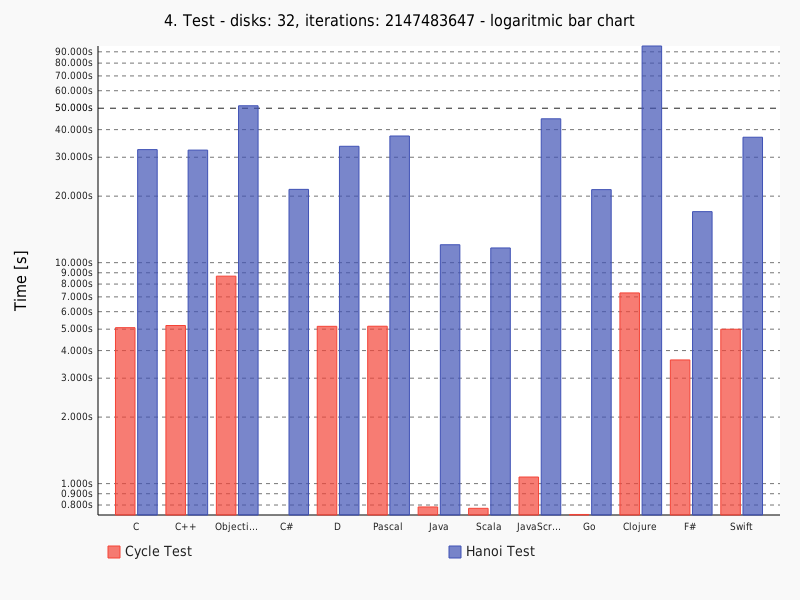
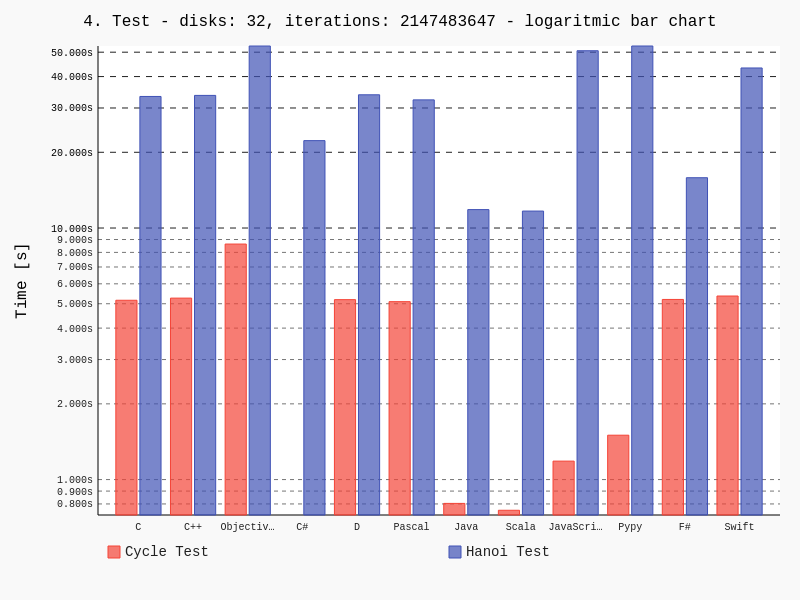
Added Pypy, updated Swift

diff --git a/sources/swift_test.swift b/sources/swift_test.swift
@@ -1,11 +1,12 @@
 import Foundation
 
-func getTime(value: NSDate, round: Int) -> String {
+func getTime(value: Double, round: Int) -> String {
     let fmt = NSNumberFormatter()
     fmt.maximumFractionDigits = round
     fmt.minimumFractionDigits = round
     fmt.minimumIntegerDigits = 1
-    return fmt.stringFromNumber(NSNumber(double: NSDate().timeIntervalSinceDate(value)))!
+
+    return fmt.stringFromNumber(NSNumber(double: NSDate().timeIntervalSince1970 - value))!
 }
 
 func hanoi(n: Int, start: Int, end: Int,  sticks: Int) -> Void {
@@ -13,8 +14,8 @@ func hanoi(n: Int, start: Int, end: Int,  sticks: Int) -> Void {
         return
     }
     let temp = sticks - start - end
-    hanoi(n - 1, start: start, end: temp, sticks: sticks)
-    hanoi(n - 1, start: temp, end: start, sticks: sticks)
+    hanoi(n: n - 1, start: start, end: temp, sticks: sticks)
+    hanoi(n: n - 1, start: temp, end: start, sticks: sticks)
 }
 
 func cycle(n: UInt) -> Void {
@@ -25,18 +26,18 @@ func cycle(n: UInt) -> Void {
 }
 
 func testHanoi(n: Int, sticks: Int) -> Void {
-    let startTime = NSDate()
-    hanoi(n, start: 1, end: n - 1, sticks: sticks)
-    print("Hanoi test passed in " + getTime(startTime, round: 3) + "s.")
+    let startTime = NSDate().timeIntervalSince1970
+    hanoi(n: n, start: 1, end: n - 1, sticks: sticks)
+    print("Hanoi test passed in " + getTime(value: startTime, round: 3) + "s.")
 }
 
 func testCycle(n: UInt) -> Void {
-    let startTime = NSDate()
-    cycle(n)
-    print("Cycle test passed in " + getTime(startTime, round: 3) + "s.")
+    let startTime = NSDate().timeIntervalSince1970
+    cycle(n: n)
+    print("Cycle test passed in " + getTime(value: startTime, round: 3) + "s.")
 }
 
 let args = Process.arguments
 print("Swift:")
-testHanoi(Int(args[1])!, sticks: Int(args[2])!)
-testCycle(UInt(args[3])!)
+testHanoi(n: Int(args[1])!, sticks: Int(args[2])!)
+testCycle(n: UInt(args[3])!)

diff --git a/sources/pypy_test.py b/sources/pypy_test.py
@@ -1,0 +1,29 @@
+import sys
+from time import time
+
+def hanoi(n, start, dest, sticks):
+    if n == 0:
+        return
+
+    temp = sticks - start - dest
+    hanoi(n - 1, start, temp, sticks)
+    hanoi(n - 1, temp, dest, sticks)
+
+def cycle(n):
+    i = 0
+    while i < n:
+        i += 1
+
+def testHanoi(n, sticks):
+    startTime = time()
+    hanoi(n, 1, sticks - 1, sticks)
+    print('Hanoi test passed in %.3fs.' % (time() - startTime))
+
+def testCycle(n):
+    startTime = time()
+    cycle(n)
+    print('Cycle test passed in %.3fs.' % (time() - startTime))
+
+print('Pypy:')
+testHanoi(int(sys.argv[1]), int(sys.argv[2]))
+testCycle(int(sys.argv[3]))

diff --git a/evaluator/languages.py b/evaluator/languages.py
@@ -113,6 +113,14 @@ class ObjCLanguage(Language):
         return self.run_process(version).splitlines()[1].strip()
 
 
+class PypyLanguage(Language):
+    """ Pypy Language config. """
+
+    def check_version(self, version):
+        """ Checks version of compiler. """
+        return self.run_process(version).splitlines()[-1].strip().strip('[]')
+
+
 class PascalLanguage(Language):
     """ Pascal Language class. """
 

diff --git a/evaluator/config.py b/evaluator/config.py
@@ -232,6 +232,16 @@ class PythonLanguage(Language):
     ORDER = 15
 
 
+class PypyLanguage(Language):
+    """ Pypy Language config. """
+
+    NAME = 'Pypy'
+    PROGRAM = safe_path('pypy')
+    VERSION = '%s --version' % PROGRAM
+    RUN = '%s sources/pypy_test.py' % PROGRAM
+    ORDER = 15
+
+
 class PerlLanguage(Language):
     """ Perl Language config. """
 

diff --git a/evaluator/docu_generator.py b/evaluator/docu_generator.py
@@ -53,6 +53,7 @@ At now benchmark supports:
   * Go
   * PHP
   * Ruby
+  * Pypy
   * Python
   * Perl
   * Bash

diff --git a/README.md b/README.md
@@ -23,6 +23,7 @@ At now benchmark supports:
   * Go
   * PHP
   * Ruby
+  * Pypy
   * Python
   * Perl
   * Bash
@@ -84,7 +85,7 @@ repository which is well suitable for maintaining fresh versions of languages.
 
 | Info |  |
 | :-----: | :-----: |
-| Operating System | Linux-4.3.3-2-ARCH-x86_64-with-arch |
+| Operating System | Linux-4.5.1-1-ARCH-x86_64-with-arch |
 | Processor | Intel(R) Core(TM) i5-4200M CPU @ 2.50GHz |
 | Total memory | 3.864GB |
 
@@ -95,28 +96,29 @@ repository which is well suitable for maintaining fresh versions of languages.
 | C | cc (GCC) 5.3.0 |
 | C++ | Copyright (C) 2015 Free Software Foundation, Inc. |
 | Objective-C | Copyright (C) 2015 Free Software Foundation, Inc. |
-| C# | Mono C# compiler version 4.2.2.0 |
-| D | DMD64 D Compiler v2.069 |
+| C# | Mono C# compiler version 4.4.0.0 |
+| D | DMD64 D Compiler v2.071.0 |
 | Pascal | Free Pascal Compiler version 3.0.0 [2015/11/26] for x86_64 |
-| Java | javac 1.8.0_66 |
-| Scala | Scala code runner version 2.11.7 -- Copyright 2002-2013, LAMP/EPFL |
+| Java | javac 1.8.0_92 |
+| Scala | Scala code runner version 2.11.8 -- Copyright 2002-2016, LAMP/EPFL |
 | Lua | Lua 5.3.2  Copyright (C) 1994-2015 Lua.org, PUC-Rio |
-| JavaScript (node.js) | v5.3.0 |
+| JavaScript (node.js) | v6.0.0 |
 | ActionScript3 | shell 2.1 release build cyclone |
-| Go | go version go1.5.2 linux/amd64 |
-| PHP | PHP 7.0.1 (cli) (built |  Jan  3 2016 09 | 05 | 41) ( NTS ) |
+| Go | Not available |
+| PHP | PHP 7.0.6 (cli) (built |  Apr 27 2016 19 | 14 | 24) ( NTS ) |
 | Ruby | ruby 2.3.0p0 (2015-12-25 revision 53290) [x86_64-linux] |
+| Pypy | PyPy 5.1.0 with GCC 5.3.0 |
 | Python | Python 3.5.1 |
 | Perl | This is perl 5, version 22, subversion 1 (v5.22.1) built for x86_64-linux-thread-multi |
 | Bash | GNU bash, version 4.3.42(1)-release (x86_64-unknown-linux-gnu) |
 | Prolog | SWI-Prolog version 7.2.3 for x86_64-linux |
-| Erlang | Erlang (SMP,ASYNC_THREADS,HIPE) (BEAM) emulator version 7.2.1 |
+| Erlang | Erlang (SMP,ASYNC_THREADS,HIPE) (BEAM) emulator version 7.3.1 |
 | Common Lisp | GNU CLISP 2.49 (2010-07-07) (built on foutrelis) |
 | Clojure | Clojure 1.7.0 |
 | F# | F# Compiler for F# 4.0 (Open Source Edition) |
 | Haskell | The Glorious Glasgow Haskell Compilation System, version 7.10.3 |
 | Scheme | MIT/GNU Scheme microcode 15.3 |
-| Swift | Swift version 2.2-dev (LLVM 3ebdbb2c7e, Clang f66c5bb67b, Swift 1f2908b4f7) |
+| Swift | Swift version 3.0-dev (LLVM 752e1430fc, Clang 1e6cba3ce3, Swift 56052cfe61) |
 
 ### Performance Tests
 
@@ -128,31 +130,31 @@ to construct tables and graphs.
     
 | Lang | Avg. cycles | Std. cycles | Avg. hanoi | Std. hanoi |
 | :-----: | :-----: | :-----: | :-----: | :-----: |
-| C | 0.024s | 4.93% | 0.008s | 9.68% |
-| C++ | 0.026s | 2.43% | 0.008s | 7.91% |
-| Objective-C | 0.045s | 16.81% | 0.013s | 12.40% |
-| C# | 0.003s | 33.33% | 0.006s | 29.81% |
-| D | 0.030s | 20.17% | 0.009s | 23.83% |
-| Pascal | 0.029s | 22.35% | 0.010s | 37.95% |
-| Java | 0.007s | 18.07% | 0.004s | 19.36% |
-| Scala | 0.010s | 38.21% | 0.007s | 55.33% |
-| Lua | 0.454s | 3.65% | 0.085s | 8.39% |
-| JavaScript | 0.006s | 0.00% | 0.011s | 12.86% |
-| ActionScript3 | 0.038s | 8.40% | 0.271s | 6.97% |
-| Go | 0.004s | 25.00% | 0.005s | 12.65% |
-| PHP | 0.132s | 4.72% | 0.134s | 11.71% |
-| Ruby | 0.229s | 5.53% | 0.141s | 4.99% |
-| Python | 0.647s | 1.25% | 0.376s | 4.41% |
-| Perl | 0.489s | 4.12% | 0.761s | 3.25% |
-| Bash | 72.836s | 2.29% | 37.862s | 3.57% |
-| Prolog | 0.322s | 2.76% | 0.265s | 5.43% |
-| Erlang | 12.037s | 3.98% | 11.865s | 4.17% |
-| Common Lisp | 5.611s | 7.35% | 1.406s | 5.51% |
-| Clojure | 0.087s | 16.55% | 0.131s | 55.10% |
-| F# | 0.018s | 10.83% | 0.004s | 11.18% |
-| Haskell | 6.383s | 4.55% | 1.635s | 4.03% |
-| Scheme | 3.690s | 2.92% | 1.193s | 3.97% |
-| Swift | 0.023s | 2.75% | 0.011s | 43.79% |
+| C | 0.023s | 3.37% | 0.008s | 0.00% |
+| C++ | 0.024s | 0.00% | 0.008s | 0.00% |
+| Objective-C | 0.039s | 1.62% | 0.012s | 7.45% |
+| C# | 0.003s | 21.08% | 0.005s | 0.00% |
+| D | 0.023s | 2.75% | 0.008s | 0.00% |
+| Pascal | 0.022s | 3.52% | 0.008s | 5.59% |
+| Java | 0.005s | 8.94% | 0.004s | 0.00% |
+| Scala | 0.007s | 27.85% | 0.011s | 59.75% |
+| Lua | 0.453s | 3.51% | 0.080s | 3.31% |
+| JavaScript | 0.005s | 12.65% | 0.012s | 6.45% |
+| ActionScript3 | 0.036s | 1.76% | 0.239s | 1.44% |
+| PHP | 0.125s | 6.18% | 0.110s | 0.57% |
+| Ruby | 0.211s | 0.56% | 0.130s | 1.85% |
+| Pypy | 0.007s | 0.00% | 0.040s | 2.96% |
+| Python | 0.607s | 0.29% | 0.353s | 1.04% |
+| Perl | 0.477s | 3.44% | 0.691s | 0.82% |
+| Bash | 69.918s | 1.12% | 36.853s | 1.27% |
+| Prolog | 0.304s | 2.99% | 0.258s | 1.59% |
+| Erlang | 11.822s | 0.92% | 11.830s | 0.86% |
+| Common Lisp | 5.245s | 0.64% | 1.339s | 0.40% |
+| Clojure | 0.081s | 9.66% | 0.087s | 18.08% |
+| F# | 0.023s | 3.89% | 0.004s | 0.00% |
+| Haskell | 6.584s | 1.98% | 1.738s | 6.69% |
+| Scheme | 3.754s | 2.17% | 1.253s | 9.92% |
+| Swift | 0.023s | 2.75% | 0.008s | 5.59% |
 
 ![Bar graph results 1](results/bar_graph1.png)
 
@@ -162,31 +164,31 @@ to construct tables and graphs.
     
 | Lang | Avg. cycles | Std. cycles | Avg. hanoi | Std. hanoi |
 | :-----: | :-----: | :-----: | :-----: | :-----: |
-| C | 0.239s | 4.79% | 0.257s | 1.98% |
-| C++ | 0.241s | 1.95% | 0.266s | 6.20% |
-| Objective-C | 0.411s | 2.30% | 0.454s | 10.45% |
-| C# | 0.036s | 22.64% | 0.174s | 3.94% |
-| D | 0.240s | 1.82% | 0.270s | 4.27% |
-| Pascal | 0.238s | 4.04% | 0.252s | 2.45% |
-| Java | 0.040s | 9.29% | 0.120s | 13.99% |
-| Scala | 0.044s | 15.94% | 0.110s | 20.85% |
-| Lua | 4.649s | 8.00% | 2.624s | 3.86% |
-| JavaScript | 0.051s | 3.40% | 0.382s | 5.70% |
-| ActionScript3 | 0.366s | 0.91% | 7.720s | 2.45% |
-| Go | 0.053s | 23.79% | 0.183s | 12.65% |
-| PHP | 1.251s | 3.63% | 3.808s | 1.72% |
-| Ruby | 2.138s | 1.24% | 4.202s | 1.24% |
-| Python | 6.323s | 1.61% | 11.387s | 1.03% |
-| Perl | 4.753s | 4.07% | 22.862s | 3.12% |
+| C | 0.237s | 3.37% | 0.258s | 2.47% |
+| C++ | 0.239s | 1.39% | 0.256s | 1.61% |
+| Objective-C | 0.405s | 3.02% | 0.408s | 2.75% |
+| C# | 0.036s | 6.33% | 0.179s | 11.09% |
+| D | 0.242s | 5.10% | 0.273s | 4.90% |
+| Pascal | 0.233s | 2.05% | 0.273s | 14.57% |
+| Java | 0.039s | 12.67% | 0.104s | 0.86% |
+| Scala | 0.042s | 21.05% | 0.109s | 20.57% |
+| Lua | 4.663s | 6.23% | 2.553s | 1.09% |
+| JavaScript | 0.051s | 5.75% | 0.381s | 2.88% |
+| ActionScript3 | 0.373s | 2.00% | 7.817s | 0.69% |
+| PHP | 1.290s | 5.26% | 3.676s | 0.40% |
+| Ruby | 2.162s | 0.57% | 4.279s | 0.48% |
+| Pypy | 0.067s | 0.67% | 0.259s | 4.38% |
+| Python | 6.321s | 1.06% | 11.726s | 1.10% |
+| Perl | 4.874s | 2.02% | 23.449s | 3.12% |
 | Bash | Dead | Dead | Dead | Dead |
-| Prolog | 3.044s | 0.59% | 8.935s | 3.38% |
+| Prolog | 3.100s | 1.58% | 8.854s | 0.75% |
 | Erlang | Dead | Dead | Dead | Dead |
-| Common Lisp | 53.490s | 1.71% | 44.645s | 1.69% |
-| Clojure | 0.431s | 8.12% | 0.866s | 3.68% |
-| F# | 0.186s | 9.56% | 0.134s | 2.93% |
-| Haskell | 64.793s | 1.74% | 52.502s | 1.95% |
-| Scheme | 38.933s | 3.48% | 38.758s | 3.54% |
-| Swift | 0.249s | 3.08% | 0.335s | 5.92% |
+| Common Lisp | 56.513s | 3.82% | 47.276s | 3.81% |
+| Clojure | 0.516s | 4.20% | 0.834s | 10.43% |
+| F# | 0.245s | 10.34% | 0.127s | 14.20% |
+| Haskell | Dead | Dead | Dead | Dead |
+| Scheme | 38.110s | 1.83% | 39.408s | 5.48% |
+| Swift | 0.242s | 9.39% | 0.295s | 9.10% |
 
 ![Bar graph results 2](results/bar_graph2.png)
 
@@ -196,31 +198,31 @@ to construct tables and graphs.
     
 | Lang | Avg. cycles | Std. cycles | Avg. hanoi | Std. hanoi |
 | :-----: | :-----: | :-----: | :-----: | :-----: |
-| C | 2.430s | 1.67% | 8.885s | 8.54% |
-| C++ | 2.437s | 1.38% | 8.160s | 1.94% |
-| Objective-C | 4.044s | 0.93% | 12.784s | 0.30% |
-| C# | 0.336s | 1.23% | 5.381s | 0.21% |
-| D | 2.378s | 0.33% | 8.238s | 0.29% |
-| Pascal | 2.330s | 0.36% | 7.827s | 0.48% |
-| Java | 0.380s | 2.78% | 2.834s | 0.55% |
-| Scala | 0.361s | 3.31% | 2.834s | 0.25% |
+| C | 2.417s | 0.43% | 8.515s | 0.58% |
+| C++ | 2.470s | 0.89% | 8.346s | 1.01% |
+| Objective-C | 4.047s | 0.32% | 13.642s | 1.37% |
+| C# | 0.363s | 7.05% | 5.922s | 3.16% |
+| D | 2.451s | 0.37% | 8.623s | 0.87% |
+| Pascal | 2.423s | 1.84% | 8.302s | 2.97% |
+| Java | 0.368s | 3.51% | 3.116s | 4.42% |
+| Scala | 0.386s | 7.60% | 3.115s | 4.79% |
 | Lua | Dead | Dead | Dead | Dead |
-| JavaScript | 0.515s | 4.41% | 11.559s | 2.20% |
+| JavaScript | 0.529s | 2.47% | 12.686s | 1.19% |
 | ActionScript3 | Dead | Dead | Dead | Dead |
-| Go | 0.340s | 1.01% | 5.377s | 0.51% |
 | PHP | Dead | Dead | Dead | Dead |
 | Ruby | Dead | Dead | Dead | Dead |
+| Pypy | 0.699s | 2.63% | 17.428s | 8.40% |
 | Python | Dead | Dead | Dead | Dead |
 | Perl | Dead | Dead | Dead | Dead |
 | Bash | Dead | Dead | Dead | Dead |
 | Prolog | Dead | Dead | Dead | Dead |
 | Erlang | Dead | Dead | Dead | Dead |
 | Common Lisp | Dead | Dead | Dead | Dead |
-| Clojure | 3.262s | 2.89% | 23.814s | 0.17% |
-| F# | 1.673s | 1.18% | 4.095s | 0.80% |
+| Clojure | 3.684s | 37.55% | 31.387s | 42.02% |
+| F# | 2.405s | 1.34% | 3.992s | 3.41% |
 | Haskell | Dead | Dead | Dead | Dead |
 | Scheme | Dead | Dead | Dead | Dead |
-| Swift | 2.304s | 1.00% | 9.007s | 2.71% |
+| Swift | 2.384s | 1.09% | 9.159s | 2.48% |
 
 ![Bar graph results 3](results/bar_graph3.png)
 
@@ -230,31 +232,31 @@ to construct tables and graphs.
     
 | Lang | Avg. cycles | Std. cycles | Avg. hanoi | Std. hanoi |
 | :-----: | :-----: | :-----: | :-----: | :-----: |
-| C | 5.078s | 1.22% | 32.479s | 1.09% |
-| C++ | 5.195s | 0.52% | 32.315s | 1.29% |
-| Objective-C | 8.688s | 0.82% | 51.293s | 1.10% |
-| C# | 0.721s | 0.27% | 21.465s | 0.28% |
-| D | 5.151s | 0.69% | 33.628s | 1.62% |
-| Pascal | 5.156s | 2.82% | 37.427s | 11.52% |
-| Java | 0.784s | 2.07% | 12.051s | 7.59% |
-| Scala | 0.773s | 5.35% | 11.656s | 2.33% |
+| C | 5.162s | 1.80% | 33.340s | 1.25% |
+| C++ | 5.264s | 1.77% | 33.666s | 2.30% |
+| Objective-C | 8.634s | 0.25% | 52.900s | 0.45% |
+| C# | 0.723s | 1.63% | 22.250s | 0.47% |
+| D | 5.191s | 0.13% | 33.853s | 0.35% |
+| Pascal | 5.096s | 0.41% | 32.315s | 0.45% |
+| Java | 0.804s | 6.80% | 11.835s | 1.14% |
+| Scala | 0.755s | 2.12% | 11.678s | 1.05% |
 | Lua | Dead | Dead | Dead | Dead |
-| JavaScript | 1.071s | 0.44% | 44.779s | 1.84% |
+| JavaScript | 1.184s | 14.48% | 50.665s | 3.86% |
 | ActionScript3 | Dead | Dead | Dead | Dead |
-| Go | 0.725s | 0.54% | 21.406s | 0.11% |
 | PHP | Dead | Dead | Dead | Dead |
 | Ruby | Dead | Dead | Dead | Dead |
+| Pypy | 1.501s | 3.38% | 52.912s | 1.63% |
 | Python | Dead | Dead | Dead | Dead |
 | Perl | Dead | Dead | Dead | Dead |
 | Bash | Dead | Dead | Dead | Dead |
 | Prolog | Dead | Dead | Dead | Dead |
 | Erlang | Dead | Dead | Dead | Dead |
 | Common Lisp | Dead | Dead | Dead | Dead |
-| Clojure | 7.294s | 8.47% | 95.625s | 0.71% |
-| F# | 3.628s | 2.06% | 17.016s | 1.84% |
+| Clojure | Dead | Dead | Dead | Dead |
+| F# | 5.200s | 0.73% | 15.846s | 1.49% |
 | Haskell | Dead | Dead | Dead | Dead |
 | Scheme | Dead | Dead | Dead | Dead |
-| Swift | 4.997s | 2.00% | 36.955s | 3.49% |
+| Swift | 5.366s | 4.06% | 43.269s | 12.13% |
 
 ![Bar graph results 4](results/bar_graph4.png)
 
